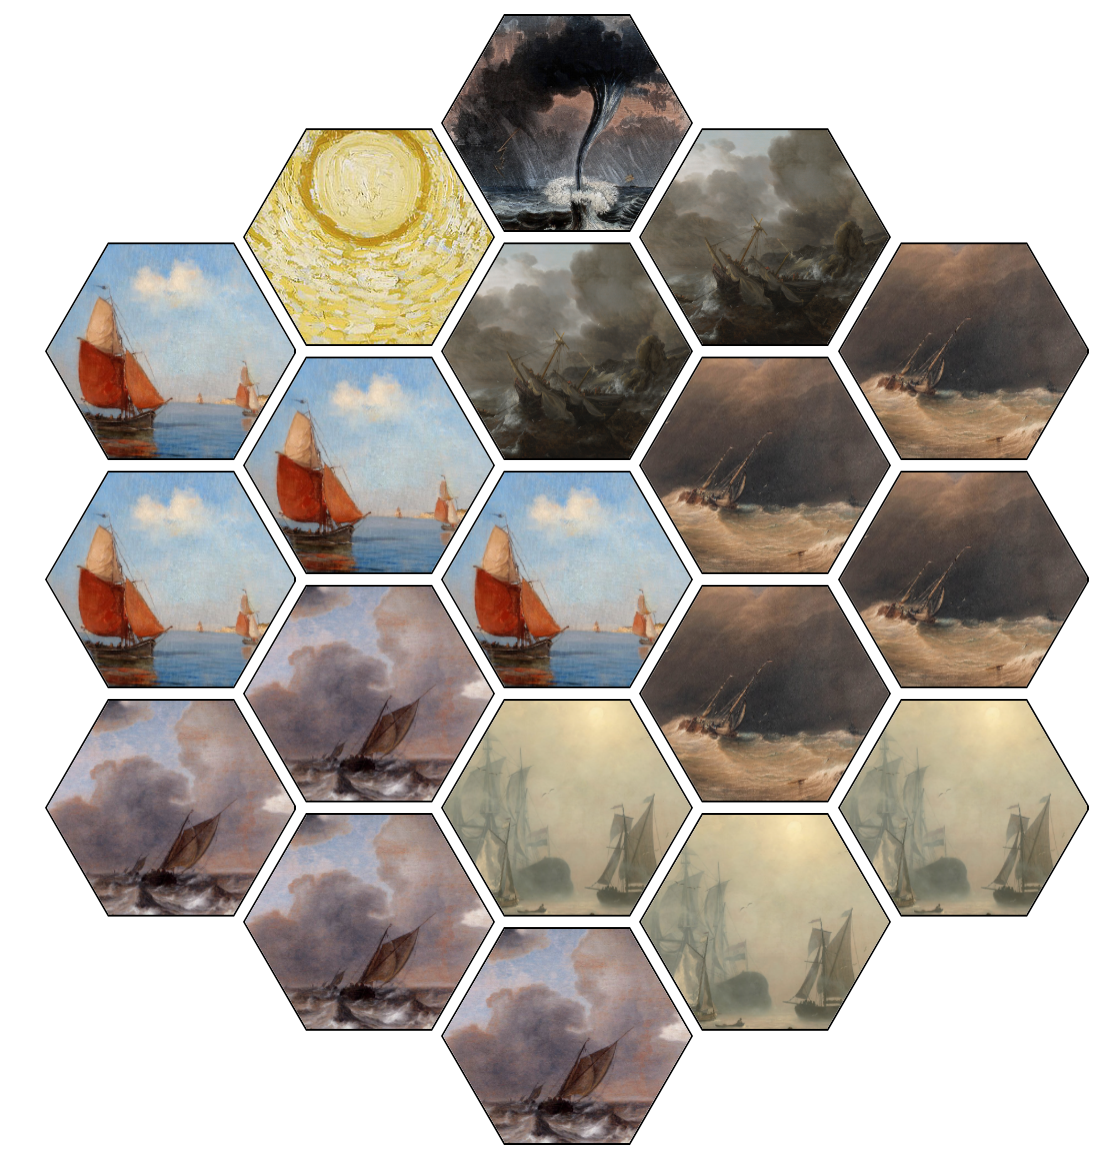
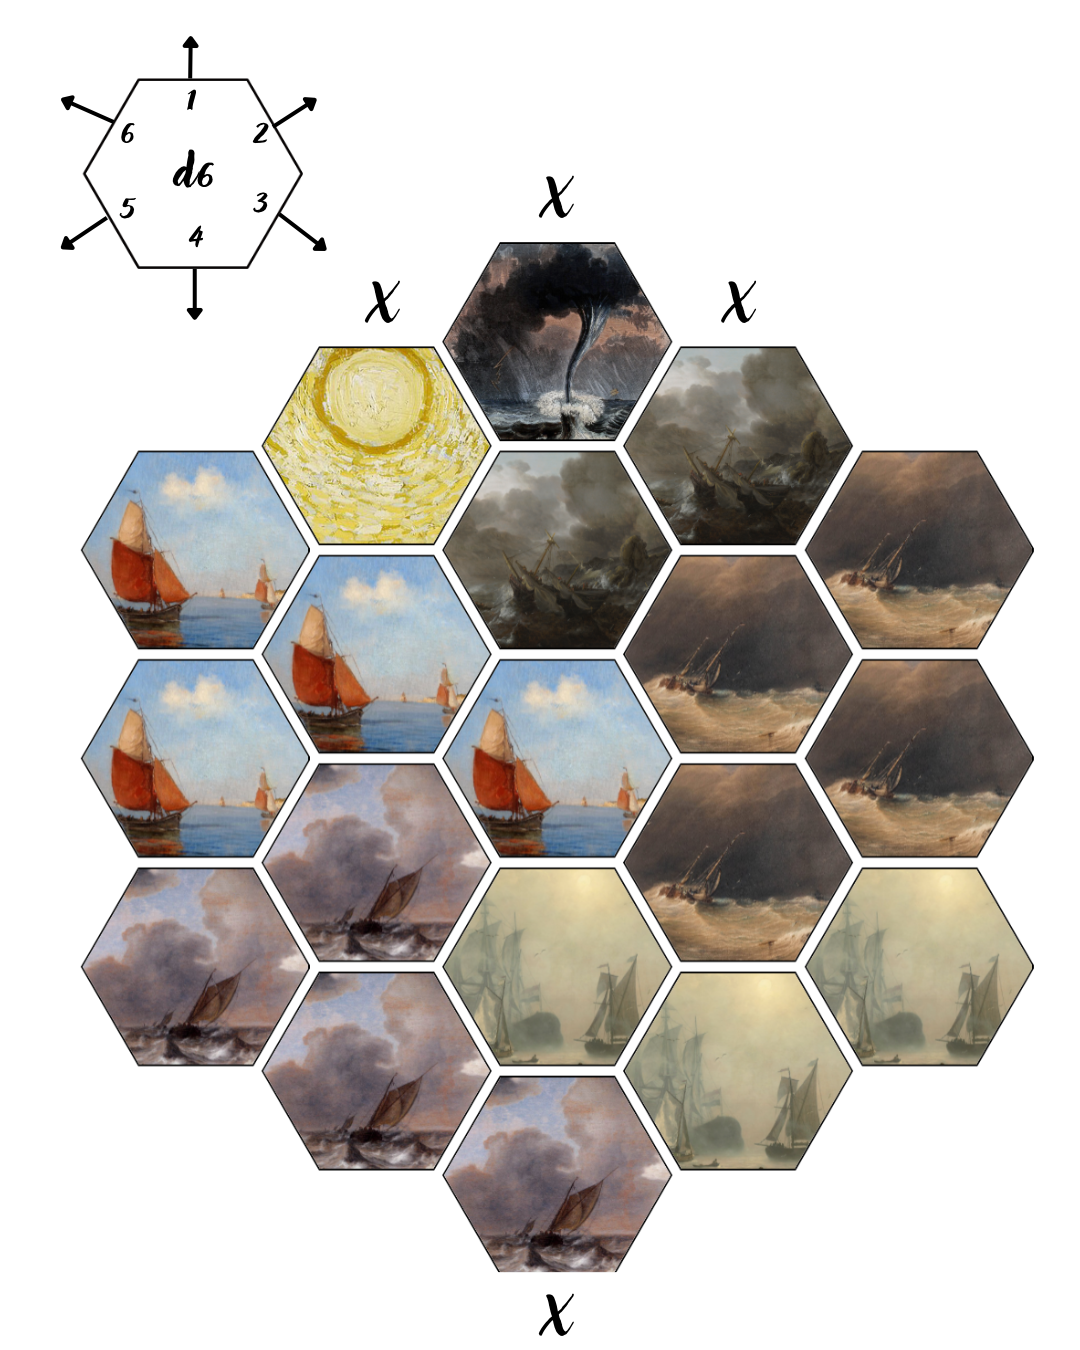
weather fix

diff --git a/weather.md b/weather.md
@@ -1,3 +1,5 @@
+Weather in the Caribbean may be simulated using the following method: first, place a marker in the centre of the hex-flower below. Then roll a d6 once at the start of each day of travel moving the marker across the hexes in the direction shown and recording the weather indicated by each. If the marker moves off the edge of the chart, it should wrap around onto the opposite side. The exception to this rule is the edges marked with an X; the marker cannot cross these edges and instead it should stay put for that day.
+
 ![Weather Hex Flower](weather_flower.png)
 
 
